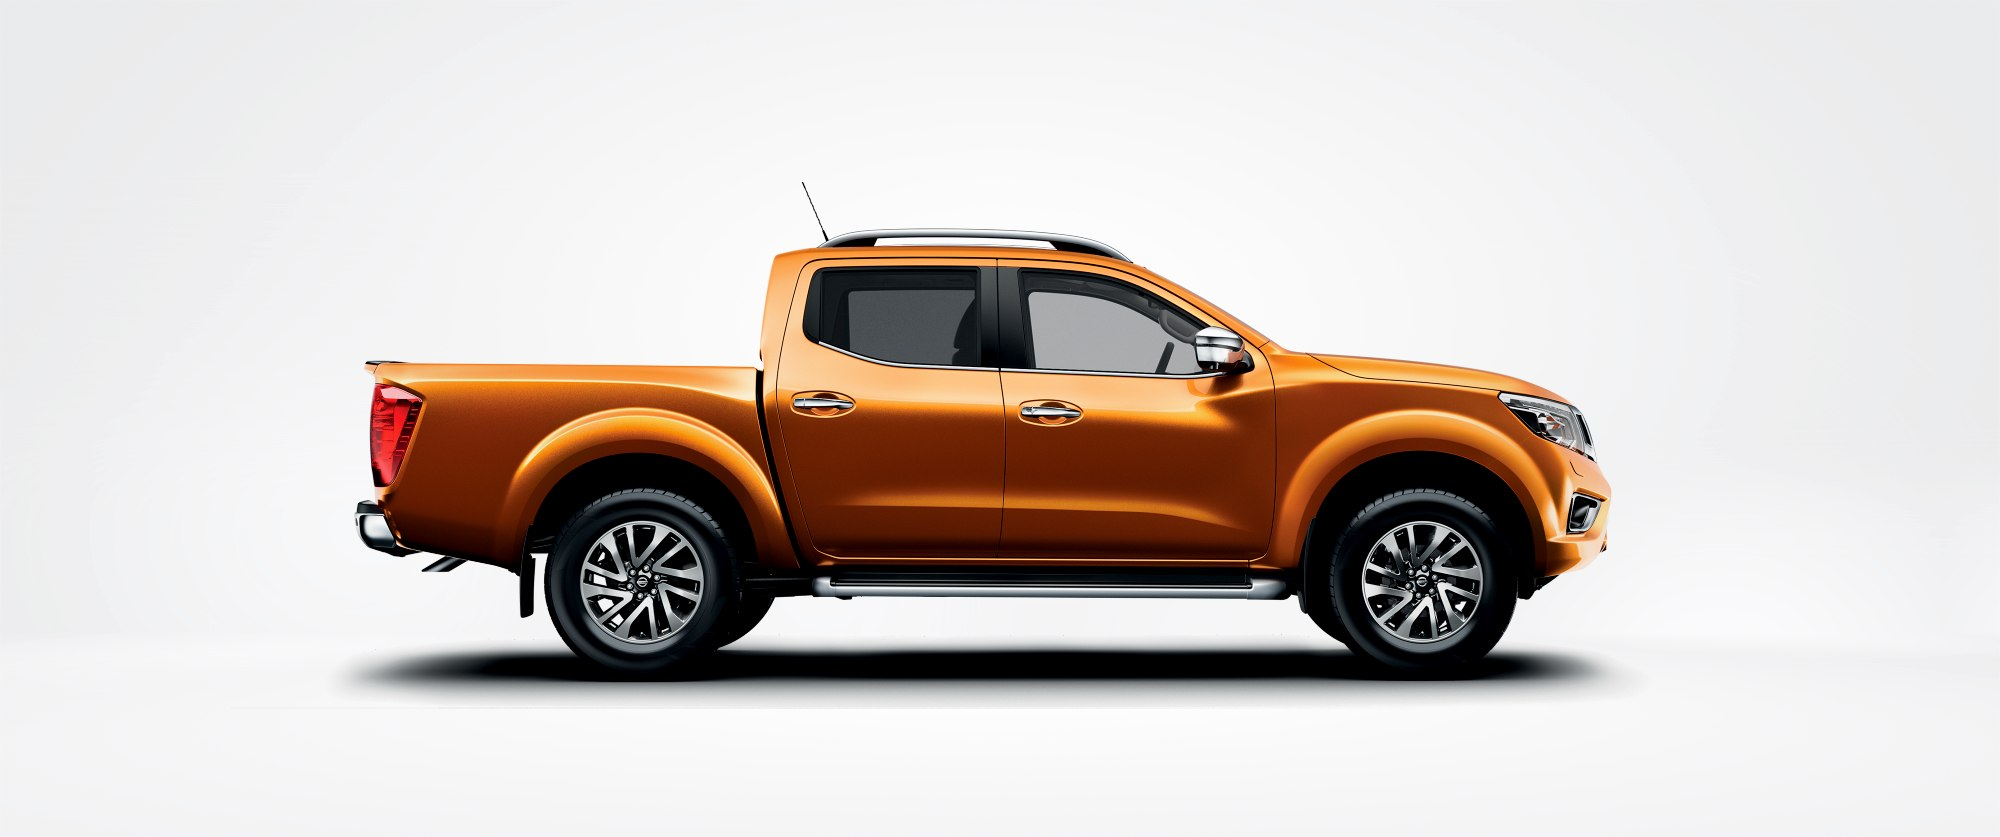
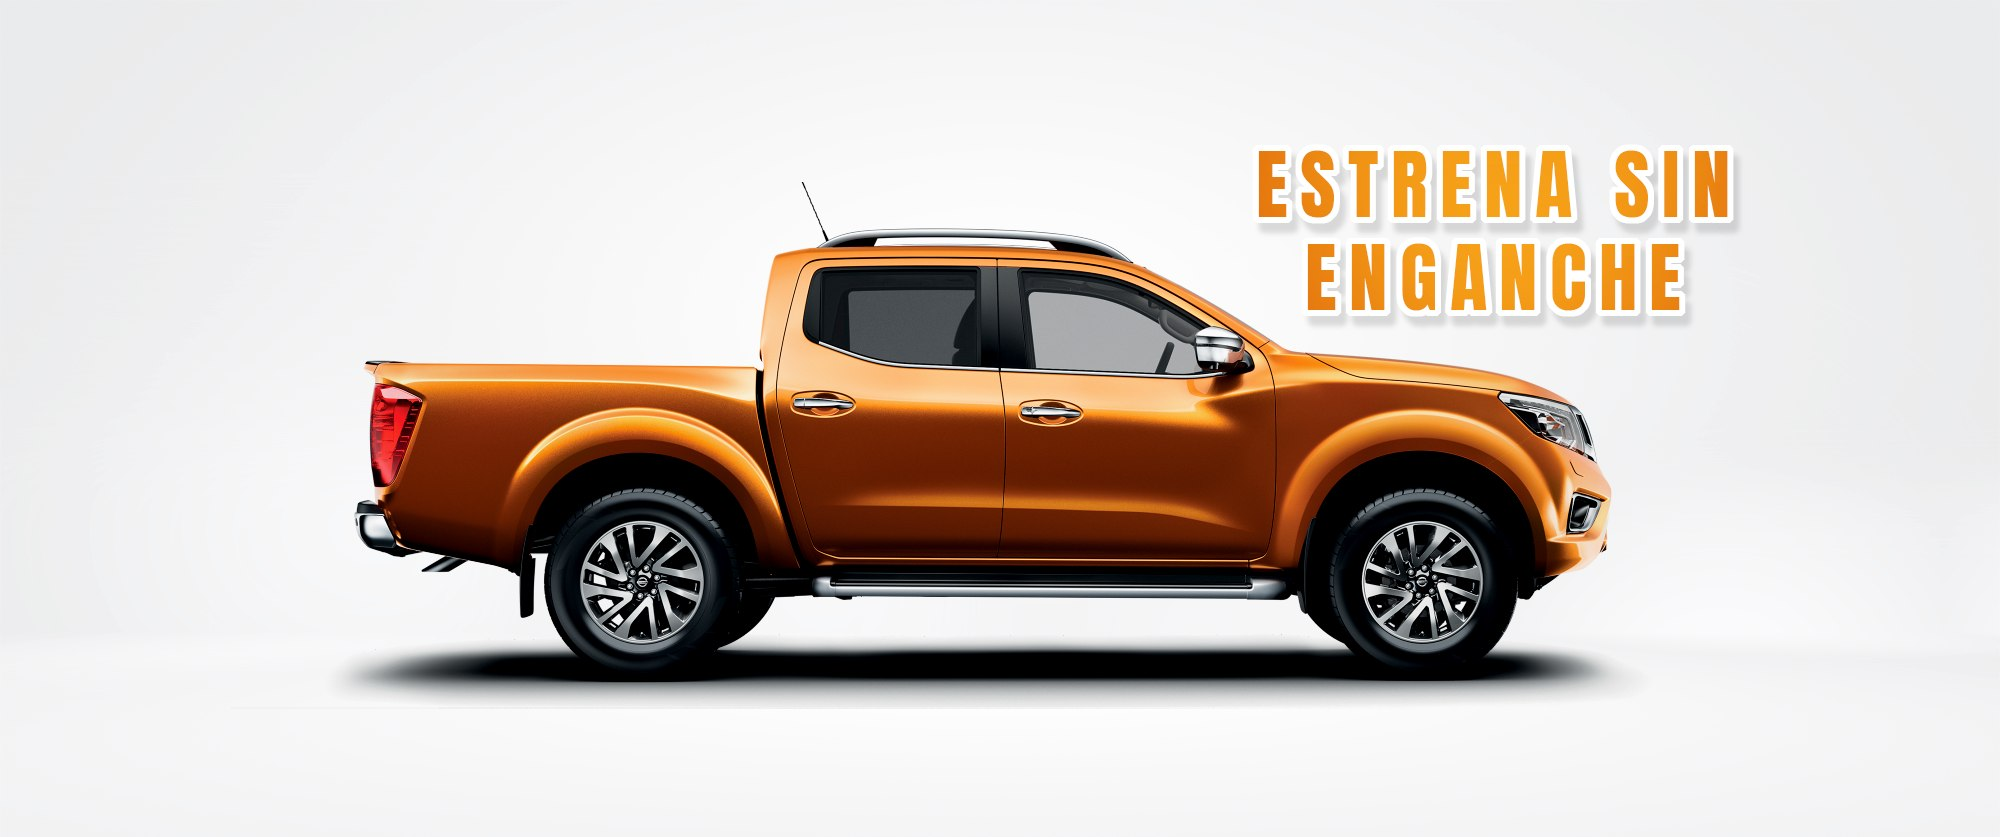
Use the pre-titled hero image and show it uncropped
The new photo already has "Estrena sin enganche" baked in near its
right edge, so the site's own overlaid headline is removed (kept as a
visually-hidden h1 for SEO/accessibility). Switches the background
image from cover-fill to its native aspect ratio so nothing gets
cropped out at any viewport width, including on mobile where cover
was showing only a thin vertical sliver of the photo.

Changed region(s): [[0.62, 0.1553, 0.868, 0.4038]]

diff --git a/src/sections/Home.tsx b/src/sections/Home.tsx
@@ -198,9 +198,7 @@ export default function Home() {
       <style>{`
         .ca-hero2 { position: relative; margin-top: -72px; min-height: 100vh; overflow: hidden; background: #F5F6F8; color: #1F2933;
           display: flex; flex-direction: column; align-items: center; justify-content: center; padding: 152px 24px 56px; }
-        .ca-hero2-bgimg { position: absolute; inset: 0; width: 100%; height: 100%; object-fit: cover; object-position: center; z-index: 0; }
-        .ca-hero2-bgtext { position: absolute; inset: 0; z-index: 2; display: flex; align-items: center; justify-content: center;
-          text-align: center; padding: 0 4vw; pointer-events: none; user-select: none; }
+        .ca-hero2-bgimg { position: absolute; left: 0; top: 50%; transform: translateY(-50%); width: 100%; height: auto; aspect-ratio: 2000 / 837; z-index: 0; }
         .ca-hero2-stat { position: absolute; top: 152px; left: 24px; max-width: 300px; z-index: 3;
           background: rgba(255,255,255,0.7); backdrop-filter: blur(16px) saturate(1.4); -webkit-backdrop-filter: blur(16px) saturate(1.4);
           border: 1px solid rgba(31,41,51,0.08); border-radius: 18px; padding: 18px 20px; box-shadow: 0 12px 32px rgba(31,41,51,0.08); }
@@ -211,8 +209,8 @@ export default function Home() {
           background: rgba(255,255,255,0.7); backdrop-filter: blur(16px) saturate(1.4); -webkit-backdrop-filter: blur(16px) saturate(1.4);
           border: 1px solid rgba(31,41,51,0.08); border-radius: 18px; padding: 14px; box-shadow: 0 12px 32px rgba(31,41,51,0.08); }
         @media (max-width: 900px) {
-          .ca-hero2 { padding: 116px 20px 40px; }
-          .ca-hero2-bgtext { position: static; margin-bottom: 24px; }
+          .ca-hero2 { padding: 116px 20px 40px; min-height: auto; }
+          .ca-hero2-bgimg { position: static; transform: none; margin-bottom: 20px; }
           .ca-hero2-stat { position: static; max-width: none; margin-bottom: 20px; }
           .ca-hero2-copy { position: static; max-width: none; margin-bottom: 0; }
           .ca-hero2-detail { display: none; }
@@ -234,28 +232,21 @@ export default function Home() {
           }}
         />
 
-        <div className="ca-hero2-bgtext">
-          <h1
-            style={{
-              margin: 0,
-              fontSize: 'clamp(32px,6.4vw,80px)',
-              lineHeight: 0.98,
-              fontWeight: 800,
-              fontStyle: 'italic',
-              letterSpacing: '-0.02em',
-              textTransform: 'uppercase',
-              color: '#fff',
-              textShadow:
-                '-1px -1px 0 rgba(31,41,51,0.45), 1px -1px 0 rgba(31,41,51,0.45), -1px 1px 0 rgba(31,41,51,0.45), 1px 1px 0 rgba(31,41,51,0.45), 0 8px 28px rgba(31,41,51,0.3)',
-            }}
-          >
-            Estrena sin
-            <br />
-            enganche, es solo
-            <br />
-            el comienzo
-          </h1>
-        </div>
+        <h1
+          style={{
+            position: 'absolute',
+            width: 1,
+            height: 1,
+            padding: 0,
+            margin: -1,
+            overflow: 'hidden',
+            clip: 'rect(0,0,0,0)',
+            whiteSpace: 'nowrap',
+            border: 0,
+          }}
+        >
+          Estrena sin enganche, es solo el comienzo
+        </h1>
 
         <div className="ca-hero2-stat">
           <div style={{ display: 'flex', alignItems: 'center', gap: 10, marginBottom: 10 }}>